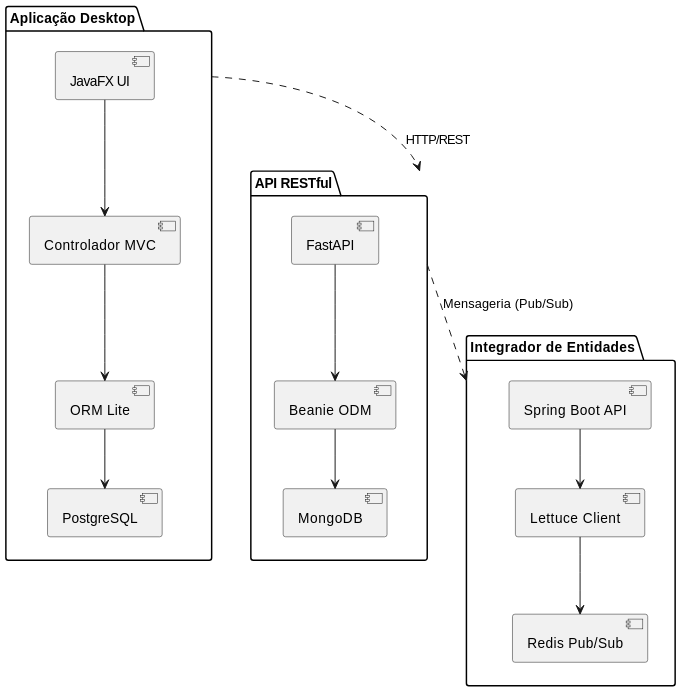
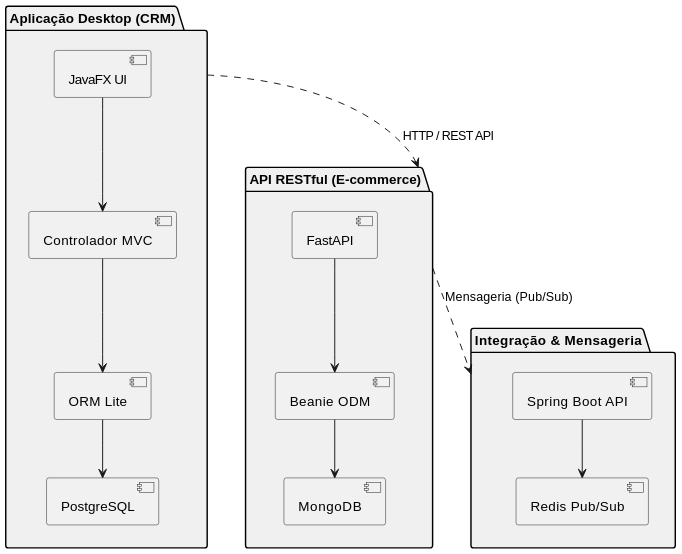
Atualizando diagramas, readme e relatorio pessoal

diff --git a/README.md b/README.md
@@ -35,14 +35,14 @@ A aplicação permite que clientes naveguem por produtos, adicionem itens ao car
 **Arquitetura:**
 O sistema é dividido nos módulos:
 
-**Backend RESTful (Spring Boot)**:
-Responsável pela lógica central do sistema, fornecendo APIs para operações de cadastro, consulta, atualização e remoção, utilizando MongoDB para dados não relacionais e PostgreSQL via ORMLite para dados relacionais.
+1. **Backend RESTful (FastAPI + Beanie + MongoDB)**  
+   Responsável pela lógica de e-commerce, exposição de APIs REST para operações com produtos, carrinho, pedidos e pagamentos. Utiliza MongoDB para dados não relacionais e Redis para cache, sessões e filas, garantindo performance e escalabilidade.
 
-**Interface Desktop (JavaFX + ORMLite)**:
-Aplicação cliente e admin com interface, utilizando ORMLite para manipular dados locais no banco PostgreSQL.
+2. **Interface Desktop (JavaFX + ORMLite + PostgreSQL)**  
+   Aplicação desktop para CRM, administração e gerenciamento dos dados relacionais do cliente, produtos e usuários. Utiliza PostgreSQL via ORMLite para persistência.
 
-**Integração**:
-Os módulos se integram via chamadas REST e mecanismos de mensageria, garantindo sincronização dos dados e fluxo consistente entre frontend, backend e banco.
+3. **Integração**  
+   Comunicação entre os módulos feita via chamadas REST API e mecanismos de mensageria (ex: Redis). Os dados dos clientes são sincronizados entre o CRM (PostgreSQL) e o backend e-commerce (MongoDB), assegurando consistência entre os sistemas.
 
 ---
 
@@ -71,7 +71,6 @@ O sistema é composto pelos seguintes principais componentes:
 ### Produto e Estoque
 
 - **Produto**: Representa um item à venda, com atributos como nome, descrição, preço, estoque e categoria.
-- **Categoria**: Agrupa produtos similares.
 
 ### Carrinho e Pedido
 
@@ -84,27 +83,37 @@ O sistema é composto pelos seguintes principais componentes:
 - **Pagamento**: Detalha o método, valor e status do pagamento de um pedido.
 - **Envio**: Gerencia o endereço de entrega, data e status do envio.
 
-### Endereço
-
-- **Endereco**: Utilizado tanto por usuários quanto para o envio dos pedidos.
-
 ---
 
 ## Tecnologias Utilizadas
 
-Backend:
-- **Java 21+**
-- **Spring Boot**
-- **Spring Data MongoDB**
-- **PostgreSQL** (banco de dados principal)
-- **Gradle**
-- **Docker** (utilizado para containerizar a aplicação e o banco de dados)
-- **JUnit (para testes)**
+### **Frontend Desktop (CRM)**
 
-Frontend Desktop:
-- **JavaFX**
+- **JavaFX** – Interface gráfica para o sistema desktop (CRM)
+- **BlueJ** – Ambiente de desenvolvimento para a aplicação Java
+- **ORM manual ou JDBC** – Acesso ao PostgreSQL via JDBC ou ORM próprio
+- **PostgreSQL** – Banco de dados relacional para gerenciamento de clientes e administrativos
+
 ---
 
+### **Backend E-commerce (API REST)**
+
+- **Python 3.12+**
+- **FastAPI** – Framework leve e moderno para APIs REST
+- **Beanie** – ODM baseado em Pydantic para interação com MongoDB
+- **Redis** – Cache, gerenciamento de sessões e/ou fila de mensagens para melhorar performance e escalabilidade
+- **MongoDB** – Banco de dados NoSQL utilizado para produtos, carrinho, pedidos, etc.
+- **Pytest** – Framework para testes automatizados
+- **Docker** – Utilizado para containerizar a API, MongoDB e ambientes de teste
+
+---
+
+### **Integração**
+
+- **Comunicação via REST API** entre a aplicação Java (CRM) e o backend Python (e-commerce)
+- Dados sincronizados entre **Cliente\_Postgre** e **Cliente\_Mongo**
+
+---
 
 ## Como Executar
 
@@ -151,11 +160,13 @@ Frontend Desktop:
 ## Diagramas
 
 O sistema é composto por três grandes módulos:
+
 - **Aplicação Desktop:** Interface gráfica (JavaFX) conectada a um controlador MVC, que utiliza ORMLite para persistência em banco relacional (PostgreSQL).
-- **API RESTful:** Backend central (Spring Boot) que expõe endpoints REST e acessa dados relacionais (PostgreSQL).
+- **API RESTful:** Backend central (FastAPI) que expõe endpoints REST e acessa dados não-relacionais via MongoDB com Beanie (ODM baseada em Pydantic).
 - **Integrador de Entidades:** (Planejado para etapas futuras) módulo responsável por integração e comunicação assíncrona entre componentes.
 
 A comunicação ocorre da seguinte forma:
+
 - A aplicação desktop pode operar localmente e sincronizar dados com a API via HTTP/REST.
 - A API centraliza a lógica de negócio e integra dados relacionais.
 
@@ -164,7 +175,7 @@ Os diagramas a seguir ilustram a arquitetura e o fluxo de integração:
 ![Diagrama de Classes](docs/diagrama-de-classe-v1.png)  
 ![Diagrama de componentes](docs/diagrama-componentes.png)  
 ![Diagrama de sequência](docs/diagrama-sequencia.png)  
-
+![Diagrama de classes por BD](docs/diagrama-classes-bd.png)
 
 ---
 
@@ -172,9 +183,9 @@ Os diagramas a seguir ilustram a arquitetura e o fluxo de integração:
 
 | Tarefa                                    | Responsável      | Prazo        |
 |-------------------------------------------|------------------|--------------|
-| Entrega 1                                 | Todos            | 21/07/2025   |
-| SQLite + ORMLite + JavaFX                 | João Pedro Brito | 25/07/2025   |
-| MongoDB + Spring Boot + Redis prep        | Leonardo Côrtes  | 25/07/2025   |
+| Entrega 1                                 | Todos            | 22/07/2025   |
+| PostgreSQL + ORMLite + JavaFX             | João Pedro Brito | 25/07/2025   |
+| MongoDB + FastAPI + Redis prep            | Leonardo Côrtes  | 25/07/2025   |
 | Diagramas UML + Documentação              | Gabriel Mota     | 25/07/2025   |
 | Testes unitários                          | Gabriel Mota     | 26/07/2025   |
 | Documentação final + relatórios           | Gabriel Mota     | 27/07/2025   |
@@ -205,7 +216,7 @@ O grupo está se familiarizando com as principais ferramentas e frameworks do pr
 
 ## Plano de Testes
 
-Os testes unitários serão implementados utilizando JUnit. Inicialmente, os testes cobrirão as classes principais do domínio e, posteriormente, serão expandidos para repositórios e controllers. Exemplos de casos de teste planejados:
+Os testes unitários serão implementados utilizando JUnit e PyTest. Inicialmente, os testes cobrirão as classes principais do domínio e, posteriormente, serão expandidos para repositórios e controllers. Exemplos de casos de teste planejados:
 
 - Criação de um novo usuário e verificação dos dados persistidos.
 - Cadastro e consulta de produtos.

diff --git a/docs/Relatórios individuais/Entrega 1/Relatorio_LeonardoCortes.md b/docs/Relatórios individuais/Entrega 1/Relatorio_LeonardoCortes.md
@@ -2,11 +2,11 @@
 
 ## 1. Atribuição e responsabilidades
 
-Fui responsável pela preparação do backend com Spring Boot e pela configuração inicial para futura integração com Redis. Também participei do planejamento técnico do projeto.
+Fui responsável pela preparação do backend com Beanie e MongoDB. Também participei do planejamento técnico do projeto.
 
 ## 2. Contribuição conforme atribuição
 
-- Estruturei o projeto Spring Boot e organizei as dependências do backend.
+- Estruturei o projeto Beanie e organizei as dependências do backend.
 - Colaborei na discussão e documentação da arquitetura do sistema.
 - Ajudei Gabriel Mota na elaboração e revisão da documentação e dos diagramas UML.
 - A integração completa com Redis será realizada nas próximas etapas.
